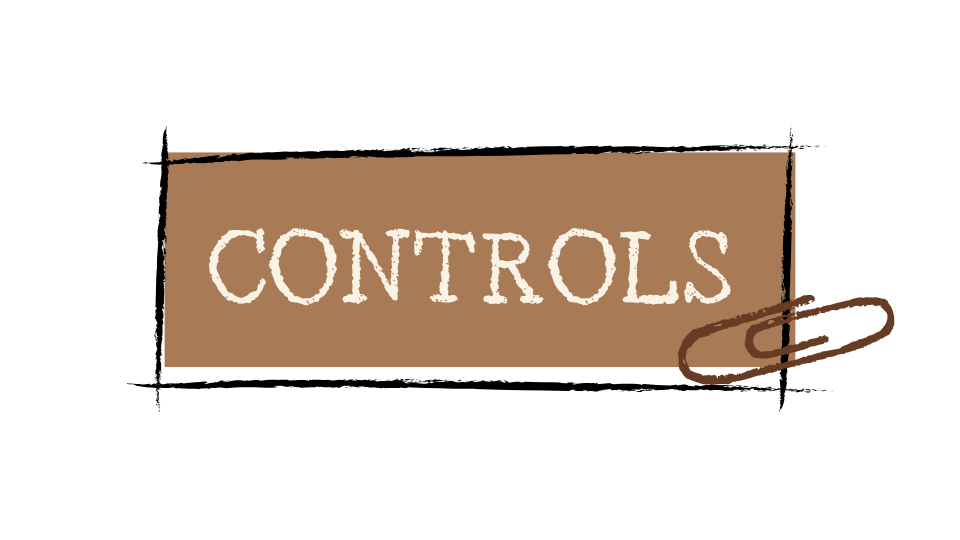
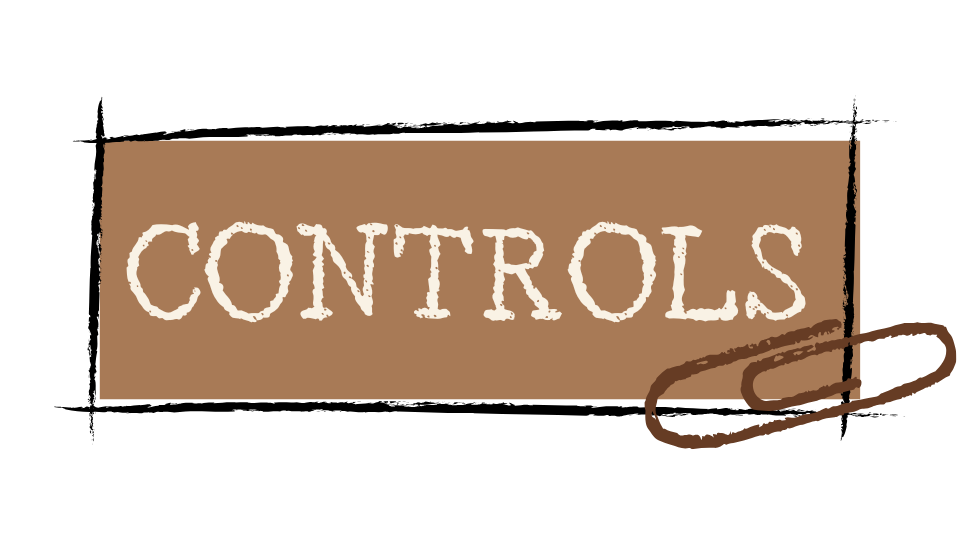
imagenes cambios

Changed region(s): [[0.0625, 0.1778, 1.0, 0.8296]]

diff --git a/project/src/game/scenes/MainMenuScene.cpp b/project/src/game/scenes/MainMenuScene.cpp
@@ -15,7 +15,7 @@ MainMenuScene::MainMenuScene() : Scene(ecs::scene::MAINMENUSCENE)
     create_static_background(&sdlutils().images().at("start"));
 
     GameStructs::ButtonProperties buttonPropTemplate = { 
-        { {0.365f, 0.25f},{0.275f, 0.1225f} },
+        { {0.365f, 0.25f},{0.375f, 0.2325f} },
         0.0f, ""
     };
 
@@ -76,15 +76,19 @@ MainMenuScene::create_start_button(const GameStructs::ButtonProperties& bp) {
     auto buttonComp = mngr->getComponent<Button>(e);
     buttonComp->connectClick([buttonComp, imgComp, mngr]() {
         imgComp->swap_textures();
+        imgComp->apply_filter(255, 255, 255);
         Game::Instance()->change_Scene(Game::SELECTIONMENU);
-        });
+    });
 
     buttonComp->connectHover([buttonComp, imgComp]() {
         imgComp->swap_textures();
-        });
+        imgComp->apply_filter(255, 255, 255);
+    });
+
     buttonComp->connectExit([buttonComp, imgComp]() {
         imgComp->swap_textures();
-        });
+        imgComp->apply_filter(255, 255, 255);
+    });
 }
 
 void 
@@ -105,14 +109,19 @@ MainMenuScene::create_controls_button(const GameStructs::ButtonProperties& bp)
     buttonComp->connectClick([buttonComp, imgComp, mngr]() {
         Game::Instance()->change_Scene(Game::CONTROLSSCENE);
         imgComp->swap_textures();
-        });
+        imgComp->apply_filter(255, 255, 255);
+    });
 
     buttonComp->connectHover([buttonComp, imgComp]() {
         imgComp->swap_textures();
-        });
+        imgComp->apply_filter(255, 255, 255);
+
+    });
+
     buttonComp->connectExit([buttonComp, imgComp]() {
         imgComp->swap_textures();
-        });
+        imgComp->apply_filter(255, 255, 255);
+    });
 }
 
 void 
@@ -132,8 +141,8 @@ MainMenuScene::create_exit_button(const GameStructs::ButtonProperties& bp)
     auto buttonComp = mngr->getComponent<Button>(e);
     
     buttonComp->connectClick([buttonComp, imgComp, mngr]() {
-        imgComp->apply_filter(255, 255, 255);
         imgComp->swap_textures();
+        imgComp->apply_filter(255, 255, 255);
         Game::Instance()->set_exit(true);
     });
 
@@ -143,7 +152,7 @@ MainMenuScene::create_exit_button(const GameStructs::ButtonProperties& bp)
     });
     
     buttonComp->connectExit([buttonComp, imgComp]() {
-        imgComp->apply_filter(255, 255, 255);           
         imgComp->swap_textures();
+        imgComp->apply_filter(255, 255, 255);           
     });
 }

diff --git a/project/src/our_scripts/components/rendering/ImageForButton.h b/project/src/our_scripts/components/rendering/ImageForButton.h
@@ -8,7 +8,11 @@ public:
 	ImageForButton() = delete;
 	ImageForButton(Texture* tex, Texture* stex, const rect_f32& viewportRect, float rotation, const camera_screen& cam);
 	virtual ~ImageForButton() { };
+
 	void swap_textures();
+
+	inline virtual void apply_filter(int r, int g, int b) override{ _selected_tex->apply_filter(r, g, b); };
+
 protected:
 	Texture* _selected_tex;
 };

diff --git a/project/src/our_scripts/components/rendering/transformless_dyn_image.h b/project/src/our_scripts/components/rendering/transformless_dyn_image.h
@@ -59,6 +59,7 @@ struct transformless_dyn_image : public ecs::Component {
 	void set_active(bool v) {
 		active = v;
 	}
-	inline void apply_filter(int r, int g, int b) { texture->apply_filter(r, g, b); };
+
+	inline virtual void apply_filter(int r, int g, int b) { texture->apply_filter(r, g, b); };
 
 };
